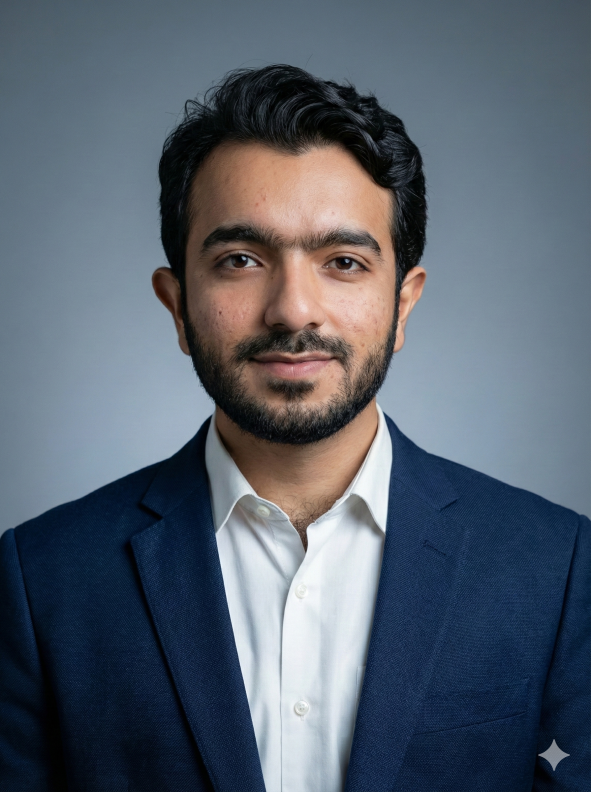
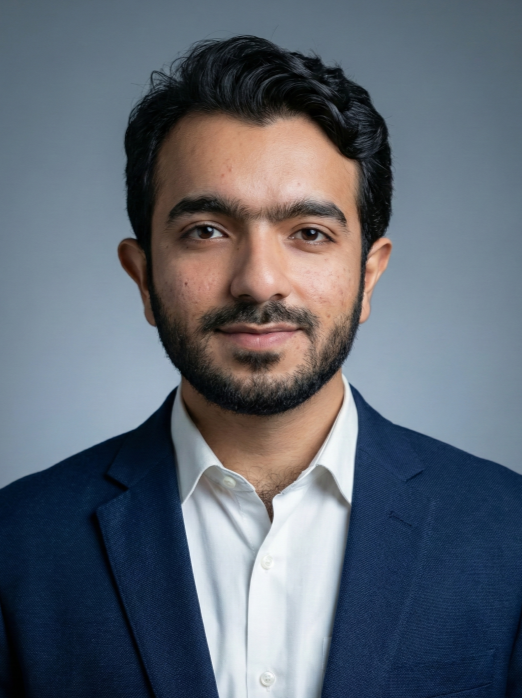
Added Hero Component, profile picture and identity

diff --git a/src/app/page.tsx b/src/app/page.tsx
@@ -1,135 +1,13 @@
-import { home, about, person, baseURL, routes, social } from "@/resources";
-import { Mailchimp } from "@/components";
+import { home, routes } from "@/resources";
+import { Hero, Mailchimp } from "@/components";
 import { Projects } from "@/components/work/Projects";
 import { Posts } from "@/components/blog/Posts";
-import Link from "next/link";
 import type { Metadata } from "next";
-import { iconLibrary } from "@/resources/icons";
 
 export const metadata: Metadata = {
   title: home.title,
   description: home.description,
 };
-
-function Hero() {
-  const githubLink =
-    social.find((item) => item.name === "GitHub")?.link ??
-    "https://github.com/ShahzebX";
-
-  const PytorchIcon = iconLibrary["pytorch"];
-  const EyeIcon = iconLibrary["eye"];
-  const FlaskIcon = iconLibrary["flask"];
-  const ReactIcon = iconLibrary["react"];
-  const NodeIcon = iconLibrary["node"];
-  const VercelIcon = iconLibrary["vercel"];
-  const GithubIcon = iconLibrary["github"];
-  const ArrowRightIcon = iconLibrary["arrowRight"];
-
-  return (
-    <div className="w-full flex flex-col items-center gap-4">
-      <div className="max-w-lg flex flex-col items-center text-center">
-        {home.featured.display && (
-          <div className="w-full flex justify-center pt-4 pb-8">
-            <Link href={home.featured.href || "/work"}>
-              <div className="inline-flex items-center gap-2 px-4 py-2 bg-zinc-100 dark:bg-zinc-800 rounded-full text-sm hover:bg-zinc-200 dark:hover:bg-zinc-700 transition-colors">
-                <span className="font-semibold">FYP</span>
-                <span className="h-5 w-px bg-brand-500/50" />
-                <span className="text-brand-600 dark:text-brand-400">
-                  Featured work
-                </span>
-              </div>
-            </Link>
-          </div>
-        )}
-
-        <div className="w-full flex justify-center pb-4">
-          <h1 className="text-4xl font-bold text-zinc-900 dark:text-white text-center text-balance">
-            Full-Stack & Computer Vision Engineer
-          </h1>
-        </div>
-
-        <div className="w-full flex justify-center pb-8">
-          <p className="text-xl text-zinc-600 dark:text-zinc-400 text-center text-balance">
-            I train computer vision models
-            <br />
-            and ship them as production-ready web applications.
-          </p>
-        </div>
-
-        <div className="flex justify-center pt-3">
-          <div className="flex flex-wrap gap-3 justify-center">
-            <Link
-              href="/work"
-              className="inline-flex items-center gap-2 px-6 py-2.5 bg-zinc-900 dark:bg-zinc-100 text-white dark:text-zinc-900 rounded-lg hover:bg-zinc-800 dark:hover:bg-zinc-200 transition-colors"
-            >
-              <span>View Projects</span>
-              {ArrowRightIcon && <ArrowRightIcon className="w-4 h-4" />}
-            </Link>
-            <Link
-              href={githubLink}
-              target="_blank"
-              className="inline-flex items-center gap-2 px-6 py-2.5 bg-zinc-900 dark:bg-zinc-100 text-white dark:text-zinc-900 rounded-lg hover:bg-zinc-800 dark:hover:bg-zinc-200 transition-colors"
-              title="Models · inference APIs · frontend"
-            >
-              {GithubIcon && <GithubIcon className="w-4 h-4" />}
-              <span>GitHub</span>
-              {ArrowRightIcon && <ArrowRightIcon className="w-4 h-4" />}
-            </Link>
-            <Link
-              href="/resume.pdf"
-              target="_blank"
-              className="inline-flex items-center gap-2 px-6 py-2.5 bg-transparent text-zinc-700 dark:text-zinc-300 border border-zinc-300 dark:border-zinc-700 rounded-lg hover:bg-zinc-100 dark:hover:bg-zinc-800 transition-colors"
-            >
-              <span>Download Resume</span>
-              {ArrowRightIcon && <ArrowRightIcon className="w-4 h-4" />}
-            </Link>
-          </div>
-        </div>
-
-        <div className="flex justify-center pt-4">
-          <div className="flex flex-wrap gap-6 justify-center mt-6">
-            <div
-              title="PyTorch"
-              className="text-zinc-400 dark:text-zinc-500 hover:text-zinc-600 dark:hover:text-zinc-300 transition-colors"
-            >
-              {PytorchIcon && <PytorchIcon className="w-6 h-6" />}
-            </div>
-            <div
-              title="Computer Vision"
-              className="text-zinc-400 dark:text-zinc-500 hover:text-zinc-600 dark:hover:text-zinc-300 transition-colors"
-            >
-              {EyeIcon && <EyeIcon className="w-6 h-6" />}
-            </div>
-            <div
-              title="Flask"
-              className="text-zinc-400 dark:text-zinc-500 hover:text-zinc-600 dark:hover:text-zinc-300 transition-colors"
-            >
-              {FlaskIcon && <FlaskIcon className="w-6 h-6" />}
-            </div>
-            <div
-              title="React"
-              className="text-zinc-400 dark:text-zinc-500 hover:text-zinc-600 dark:hover:text-zinc-300 transition-colors"
-            >
-              {ReactIcon && <ReactIcon className="w-6 h-6" />}
-            </div>
-            <div
-              title="Node.js"
-              className="text-zinc-400 dark:text-zinc-500 hover:text-zinc-600 dark:hover:text-zinc-300 transition-colors"
-            >
-              {NodeIcon && <NodeIcon className="w-6 h-6" />}
-            </div>
-            <div
-              title="Vercel"
-              className="text-zinc-400 dark:text-zinc-500 hover:text-zinc-600 dark:hover:text-zinc-300 transition-colors"
-            >
-              {VercelIcon && <VercelIcon className="w-6 h-6" />}
-            </div>
-          </div>
-        </div>
-      </div>
-    </div>
-  );
-}
 
 export default function Home() {
   return (

diff --git a/src/components/Hero.tsx b/src/components/Hero.tsx
@@ -1,0 +1,135 @@
+"use client";
+
+import { home, person } from "@/resources";
+import { iconLibrary } from "@/resources/icons";
+import Image from "next/image";
+import Link from "next/link";
+import { useEffect, useMemo, useRef, useState } from "react";
+
+function usePrefersReducedMotion(): boolean {
+  const [reduced, setReduced] = useState(false);
+
+  useEffect(() => {
+    const mediaQuery = window.matchMedia("(prefers-reduced-motion: reduce)");
+    const onChange = () => setReduced(mediaQuery.matches);
+
+    onChange();
+    mediaQuery.addEventListener("change", onChange);
+    return () => mediaQuery.removeEventListener("change", onChange);
+  }, []);
+
+  return reduced;
+}
+
+export function Hero() {
+  const prefersReducedMotion = usePrefersReducedMotion();
+  const [isVisible, setIsVisible] = useState(false);
+  const textRef = useRef<HTMLDivElement | null>(null);
+
+  const contactLink = useMemo(() => `mailto:${person.email}`, []);
+
+  const ArrowRightIcon = iconLibrary["arrowRight"];
+
+  useEffect(() => {
+    if (prefersReducedMotion) {
+      setIsVisible(true);
+      return;
+    }
+
+    const element = textRef.current;
+    if (!element) return;
+
+    const observer = new IntersectionObserver(
+      ([entry]) => {
+        if (entry?.isIntersecting) {
+          setIsVisible(true);
+          observer.disconnect();
+        }
+      },
+      { threshold: 0.25 },
+    );
+
+    observer.observe(element);
+    return () => observer.disconnect();
+  }, [prefersReducedMotion]);
+
+  return (
+    <section
+      aria-label="Introduction"
+      className="w-full flex flex-col items-center gap-8"
+    >
+      {home.featured.display && (
+        <div className="w-full flex justify-center pt-4">
+          <Link
+            href={home.featured.href || "/work"}
+            aria-label="Open featured work"
+          >
+            <div className="inline-flex items-center gap-2 px-4 py-2 bg-zinc-100 dark:bg-zinc-800 rounded-full text-sm hover:bg-zinc-200 dark:hover:bg-zinc-700 transition-colors">
+              <span className="font-semibold">FYP</span>
+              <span className="h-5 w-px bg-brand-500/50" />
+              <span className="text-brand-600 dark:text-brand-400">
+                Featured work
+              </span>
+            </div>
+          </Link>
+        </div>
+      )}
+
+      <div className="w-full flex flex-col md:flex-row items-center md:items-start gap-8 md:gap-10">
+        <div className="w-full md:w-60 flex justify-center md:justify-start">
+          <div className="relative">
+            <Image
+              src="/images/avatar.png"
+              alt={`Professional headshot of ${person.name}`}
+              width={240}
+              height={240}
+              priority
+              className="rounded-2xl shadow-sm ring-1 ring-zinc-200 dark:ring-zinc-800 bg-zinc-100 dark:bg-zinc-900"
+            />
+          </div>
+        </div>
+
+        <div
+          ref={textRef}
+          className={
+            "w-full flex-1 text-center md:text-left transition-all duration-700 ease-out " +
+            (isVisible
+              ? "opacity-100 translate-y-0"
+              : "opacity-0 translate-y-3")
+          }
+        >
+          <h1 className="text-4xl sm:text-5xl font-bold text-zinc-900 dark:text-white text-balance">
+            {person.name}
+          </h1>
+          <p className="mt-3 text-xl text-zinc-700 dark:text-zinc-300 text-balance">
+            {person.role}
+          </p>
+          <p className="mt-5 text-lg text-zinc-600 dark:text-zinc-400 text-balance">
+            Full-Stack + AI engineering to ship production-ready, end-to-end
+            AI-powered web applications.
+          </p>
+
+          <div className="mt-8 flex flex-wrap gap-3 justify-center md:justify-start">
+            <Link
+              href="/work"
+              aria-label="View projects"
+              className="inline-flex items-center justify-center gap-2 px-6 py-2.5 bg-zinc-900 dark:bg-zinc-100 text-white dark:text-zinc-900 rounded-lg hover:bg-zinc-800 dark:hover:bg-zinc-200 transition-colors focus-visible:outline-none focus-visible:ring-2 focus-visible:ring-brand-500 focus-visible:ring-offset-2 focus-visible:ring-offset-white dark:focus-visible:ring-offset-zinc-950"
+            >
+              <span>View Projects</span>
+              {ArrowRightIcon && <ArrowRightIcon className="w-4 h-4" />}
+            </Link>
+
+            <Link
+              href={contactLink}
+              aria-label="Contact via email"
+              className="inline-flex items-center justify-center gap-2 px-6 py-2.5 bg-transparent text-zinc-700 dark:text-zinc-300 border border-zinc-300 dark:border-zinc-700 rounded-lg hover:bg-zinc-100 dark:hover:bg-zinc-800 transition-colors focus-visible:outline-none focus-visible:ring-2 focus-visible:ring-brand-500 focus-visible:ring-offset-2 focus-visible:ring-offset-white dark:focus-visible:ring-offset-zinc-950"
+            >
+              <span>Contact</span>
+              {ArrowRightIcon && <ArrowRightIcon className="w-4 h-4" />}
+            </Link>
+          </div>
+        </div>
+      </div>
+    </section>
+  );
+}

diff --git a/src/resources/content.tsx b/src/resources/content.tsx
@@ -109,12 +109,12 @@ const about: About = {
         <br />
         My work includes:
         <br />
-        📌 Low-Light Image Enhancer built with Flask + MIRNet + React
+        Low-Light Image Enhancer built with Flask + MIRNet + React
         <br />
-        📌 Solar Panel Segmentation (FYP) exploring BYOL and self-supervised
+        Solar Panel Segmentation (FYP) exploring BYOL and self-supervised
         learning
         <br />
-        📌 Enterprise Full-Stack Apps using the MERN stack
+        Enterprise Full-Stack Apps using the MERN stack
         <br />
         <br />
         I'm currently seeking roles where I can build AI-augmented products,
@@ -126,22 +126,6 @@ const about: About = {
     display: true, // set to false to hide this section
     title: "Work Experience",
     experiences: [
-      {
-        company: "Artificial Intelligence Community of Pakistan",
-        timeframe: "Jan 2025 - Present",
-        role: "Campus Co-Lead",
-        achievements: [
-          <>
-            Lead a diverse team to organize two monthly webinars with industry
-            experts, democratizing AI education for students across the region.
-          </>,
-          <>
-            Manage cross-departmental teams and facilitate knowledge-sharing
-            sessions on AI/ML topics.
-          </>,
-        ],
-        images: [],
-      },
       {
         company: "Artificial Intelligence Community of Pakistan",
         timeframe: "Jan 2025 - Present",
@@ -239,10 +223,10 @@ const about: About = {
           </>
         ),
         tags: [
-          { name: "React" },
+          { name: "React", icon: "react" },
           { name: "Next.js", icon: "nextjs" },
-          { name: "Tailwind CSS" },
-          { name: "Axios" },
+          { name: "Tailwind CSS", icon: "tailwind" },
+          { name: "Axios", icon: "axios" },
         ],
         images: [],
       },
@@ -252,10 +236,10 @@ const about: About = {
           <>Creating scalable server-side applications and RESTful APIs.</>
         ),
         tags: [
-          { name: "Node.js" },
-          { name: "Express.js" },
-          { name: "Flask" },
-          { name: "MongoDB" },
+          { name: "Node.js", icon: "nodejs" },
+          { name: "Express.js", icon: "express" },
+          { name: "Flask", icon: "flask" },
+          { name: "MongoDB", icon: "mongodb" },
         ],
         images: [],
       },
@@ -268,15 +252,15 @@ const about: About = {
           </>
         ),
         tags: [
-          { name: "PyTorch" },
-          { name: "CNNs" },
-          { name: "Self-Supervised Learning" },
-          { name: "MIRNet" },
-          { name: "BYOL" },
-          { name: "MoCo v2" },
-          { name: "Model Deployment" },
-          { name: "RAG" },
-          { name: "LLM Fine-Tuning" },
+          { name: "PyTorch", icon: "pytorch" },
+          { name: "CNNs", icon: "cnn" },
+          { name: "Self-Supervised Learning", icon: "ssl" },
+          { name: "MIRNet", icon: "mirnet" },
+          { name: "BYOL", icon: "byol" },
+          { name: "MoCo v2", icon: "mocov2" },
+          { name: "Model Deployment", icon: "modeldeployment" },
+          { name: "RAG", icon: "rag" },
+          { name: "LLM Fine-Tuning", icon: "llmfine-tuning" },
         ],
         images: [],
       },

diff --git a/src/components/index.ts b/src/components/index.ts
@@ -1,5 +1,6 @@
 export { Header } from "@/components/Header";
 export { Footer } from "@/components/Footer";
+export { Hero } from "@/components/Hero";
 export { Mailchimp } from "@/components/Mailchimp";
 export { ProjectCard } from "@/components/ProjectCard";
 export { HeadingLink } from "@/components/HeadingLink";
